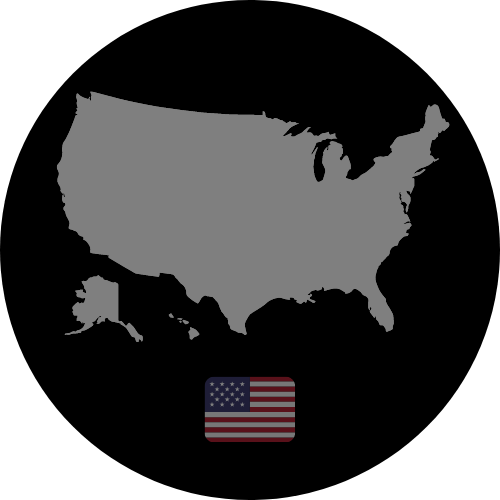
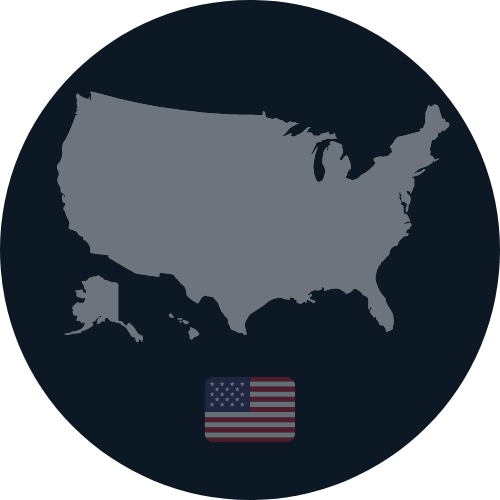
update canada usa selectors

diff --git a/react-front-end/src/components/Header/Header.js b/react-front-end/src/components/Header/Header.js
@@ -14,8 +14,8 @@ export default function Header() {
         <HoverImage src="./images/logo.png" hoverSrc="./images/logohover.png" className="logo" />
         <img src='./images/user.png' alt='' className="userAvatar"></img>
       </div>
-      <ChooseCountry />
-      {/* <TrendingHash /> */}
+      {/* <ChooseCountry /> */}
+      <TrendingHash />
     </nav>
 
   );

diff --git a/react-front-end/src/components/styles/variables.scss b/react-front-end/src/components/styles/variables.scss
@@ -8,7 +8,7 @@ $black: #000;
 
 $dark-background: #0c1824;
 $dark-grey-background: #0e0f0f;
-$dark-grey-background-opacity: #0e0f0f80;
+$dark-grey-background-opacity: #0e0f0f90;
 $accent: #1DE9B6;
 $accent-red: #BA3B61;
 
